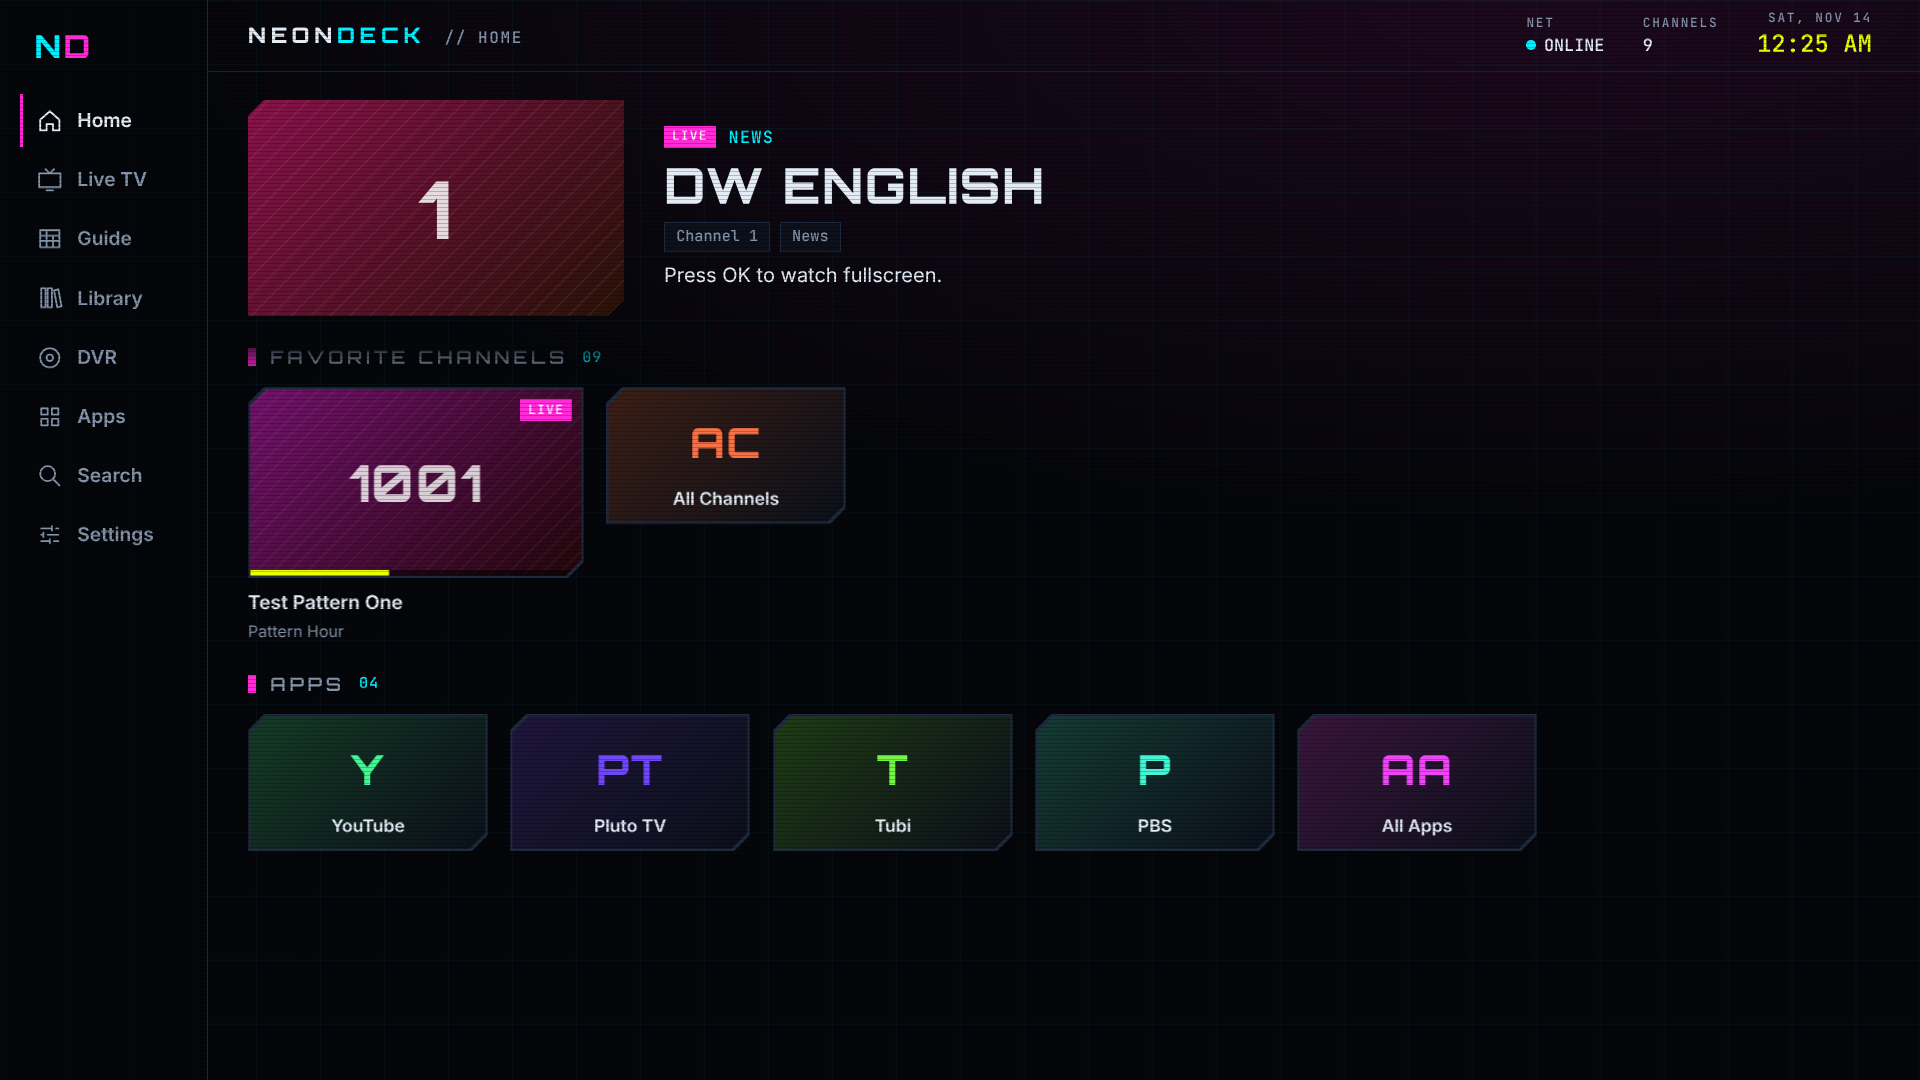
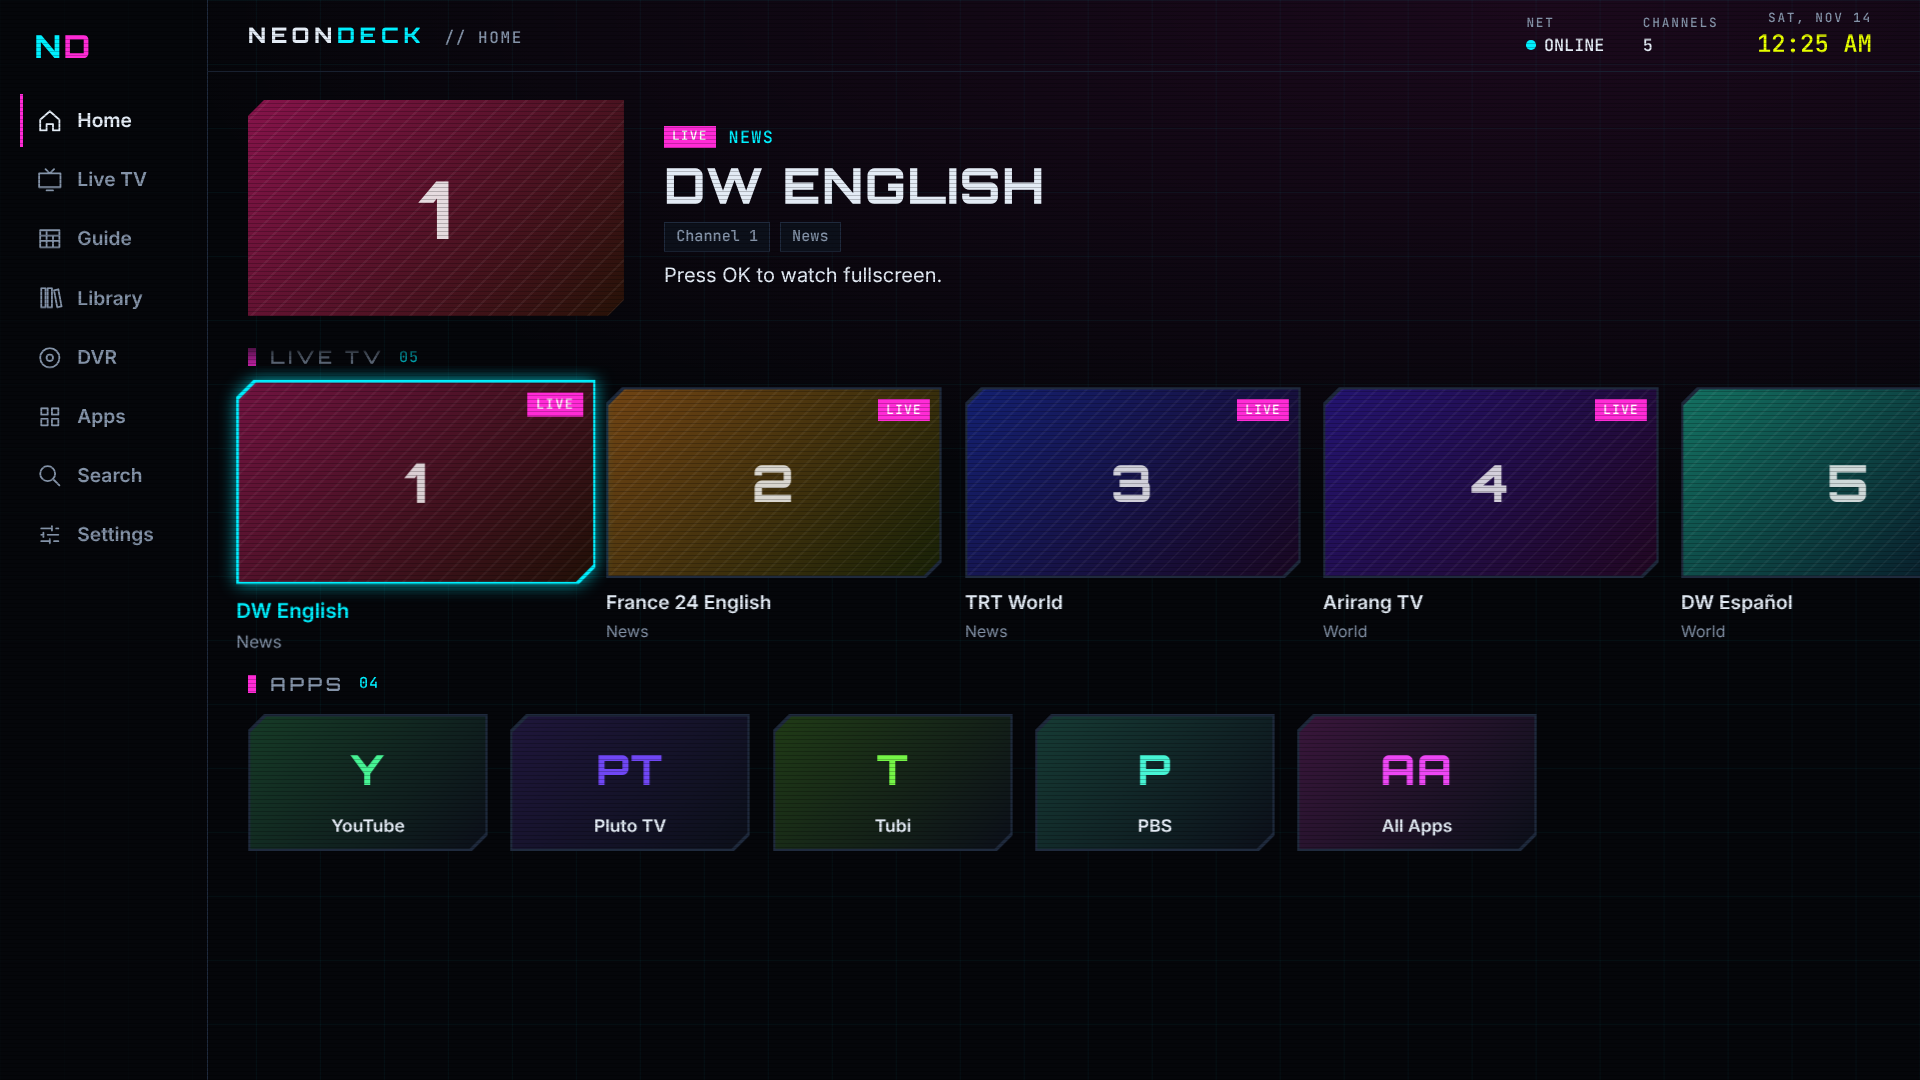
Starter pack: ten verified channels; README for 0.3.0
Claude-Session: https://claude.ai/code/session_01Y5auM25jqv4MzdBkKFFMN4

Changed region(s): [[0.0938, 0.3056, 1.0, 0.6111]]

diff --git a/README.md b/README.md
@@ -4,14 +4,12 @@ A fullscreen, remote-friendly TV interface for a Windows 11 PC: app tiles for
 every major streaming service, an app store screen, and (in later milestones)
 live TV, DVR, library, and search. No accounts, no telemetry, no cloud.
 
-**Status: Windows preview 0.2.0.** Home screen, navigation, themes, and the
-Apps section are built. Live TV, library, search, and DVR screens are
-placeholders. The Windows-specific code has not yet been run on a real
-Windows 11 PC; see "Not yet tested" below.
+**Status: Windows preview 0.3.0.** Home, Live TV, Guide, Apps, and Settings
+work. Library, DVR, and Search are not built yet and say so on screen.
 
 ## Install on Windows 11
 
-Run `NEONDECK-Setup-0.2.0.exe`. The installer is unsigned, so Windows
+Run `NEONDECK-Setup-0.3.0.exe` from the repository's Releases page. The installer is unsigned, so Windows
 SmartScreen will show a warning: choose **More info → Run anyway**.
 
 Then, inside NEONDECK:
@@ -28,6 +26,38 @@ Then, inside NEONDECK:
 |---|---|---|---|
 | Keyboard or remote | Arrow keys | Enter | Esc or Backspace |
 | Gamepad | D-pad or left stick | A | B |
+
+## Live TV
+
+Live TV merges every enabled source into one channel list.
+
+- **Starter channels:** ten news and world channels that are the
+  broadcasters' own free public streams (DW, France 24, Al Jazeera English,
+  NHK World-Japan, TRT World, Arirang TV). NEONDECK links to them; it does not
+  host or relay them, and their terms of use have not been reviewed
+  individually. Turn the pack off under **Live TV → Sources** if you prefer.
+- **Your sources:** add an M3U playlist address or an Xtream-style account
+  under **Live TV → Sources**. An XMLTV guide address is optional; a guide
+  named in the playlist header is picked up automatically.
+- NEONDECK ships no other streams and does not bypass any protection.
+
+Watching:
+
+| Input | Action |
+|---|---|
+| OK on a channel | Tune. OK again goes fullscreen. |
+| Up / Down (fullscreen) | Next / previous channel |
+| Left (fullscreen) | Last channel |
+| Right (fullscreen) | Show or hide the channel banner |
+| 0–9 (fullscreen) | Go to a channel number |
+| ★ beside a channel | Add or remove a favorite |
+
+The time from tune to first picture is measured and shown on every channel
+change.
+
+Sources, favorites, and the last channel are saved in
+`%APPDATA%\NEONDECK\config\livetv.json`. An Xtream password is stored there
+in plain text, because the player must send it to your provider.
 
 ## App tiles
 
@@ -56,8 +86,11 @@ and managed entirely by Edge.
 ## Configuration
 
 Plain JSON files in `%APPDATA%\NEONDECK\config\`. `tiles.json` holds pins,
-hidden tiles, custom tiles, and remembered app links. Copy the folder to
-back up or move your setup.
+hidden tiles, custom tiles, and remembered app links; `livetv.json` holds
+sources and favorites. Copy the folder to back up or move your setup.
+
+If something does not work, **Settings → Diagnostics** opens the folder with
+`neondeck.log`, a plain-text record of what NEONDECK tried and what failed.
 
 ## Develop
 
@@ -104,18 +137,18 @@ The installer is written to `apps/desktop/release/`.
 | `apps/desktop` | Electron shell. `src/platform/windows.ts` is the only Windows-specific code; a Linux adapter implements the same contract later. |
 | `docs/screenshots` | Screenshots from each milestone. |
 
-## Not yet tested
+## How it is tested
 
-Verified here: unit tests, the UI in a browser against a demo platform, the
-desktop shell starting on Linux, and the installer building successfully.
+- Unit tests for the playlist, guide, and winget parsers, tile logic, and
+  navigation (`npm test`).
+- Every push builds the installer on a GitHub Windows machine and then drives
+  the packaged app there: it plays each starter channel, changes channels
+  fullscreen, opens an app tile in Edge and checks that focus returns, and
+  runs winget search, install, and uninstall. Results are saved to the
+  `ci-logs` branch.
 
-Not verified, because it needs a real Windows 11 PC:
-
-- Running the installer and the installed app.
-- winget search, install, update, and uninstall, and reading the Start menu.
-- Launching apps and Edge, and returning focus when they close.
-- Start at sign-in.
-- A physical gamepad.
+Not covered by those checks: a physical remote or gamepad, HDMI-CEC,
+Microsoft Store sign-in, and your own playlists.
 
 ## License
 
